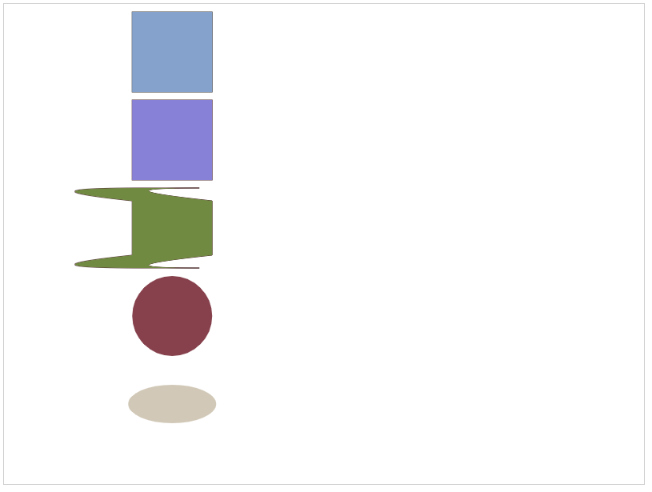
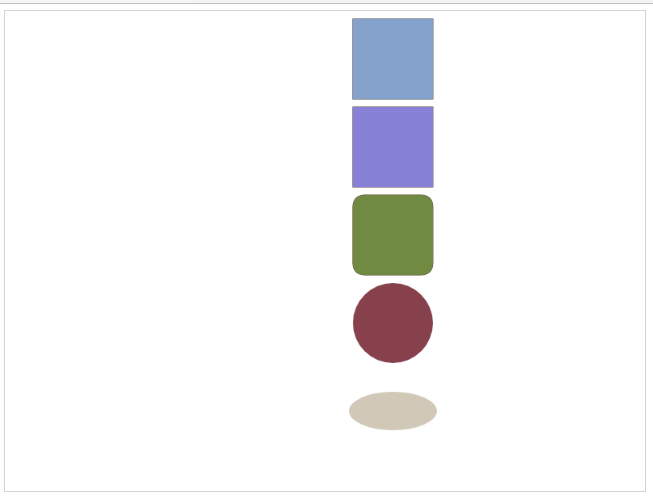
quadraticCurveTo movement fix

diff --git a/src/core/path2d/create-path2d.ts b/src/core/path2d/create-path2d.ts
@@ -62,7 +62,8 @@ handlers.QuadraticCurveTo = ({ path, element, transform }) => {
   if (element.type !== 'QuadraticCurveTo') return
   const { cpx, cpy } = element
   const { x, y } = transform.applyMatrix(new Point(element))
-  path.quadraticCurveTo(cpx, cpy, x, y)
+  const cp = transform.applyMatrix(new Point(cpx, cpy))
+  path.quadraticCurveTo(cp.x, cp.y, x, y)
 }
 
 handlers.Rect = ({ path, element, transform, globalTransform }) => {
